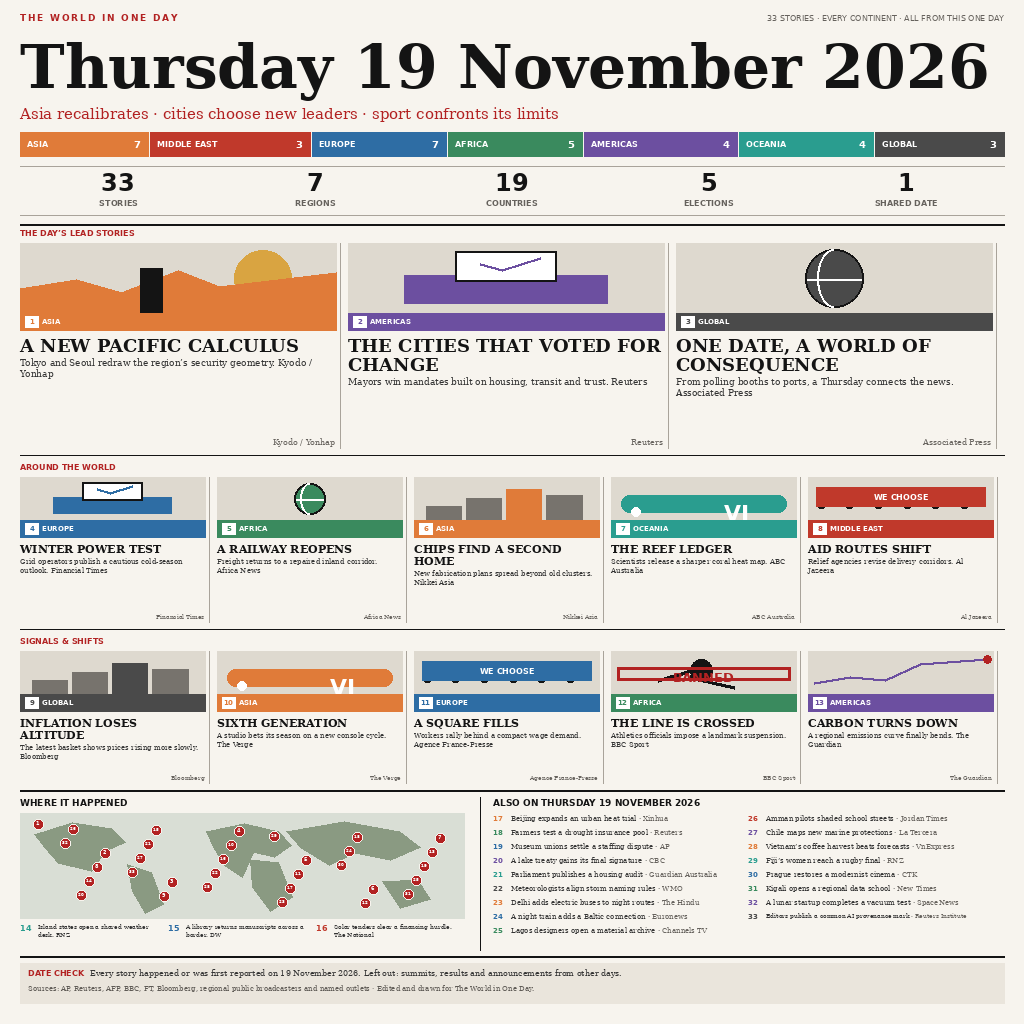
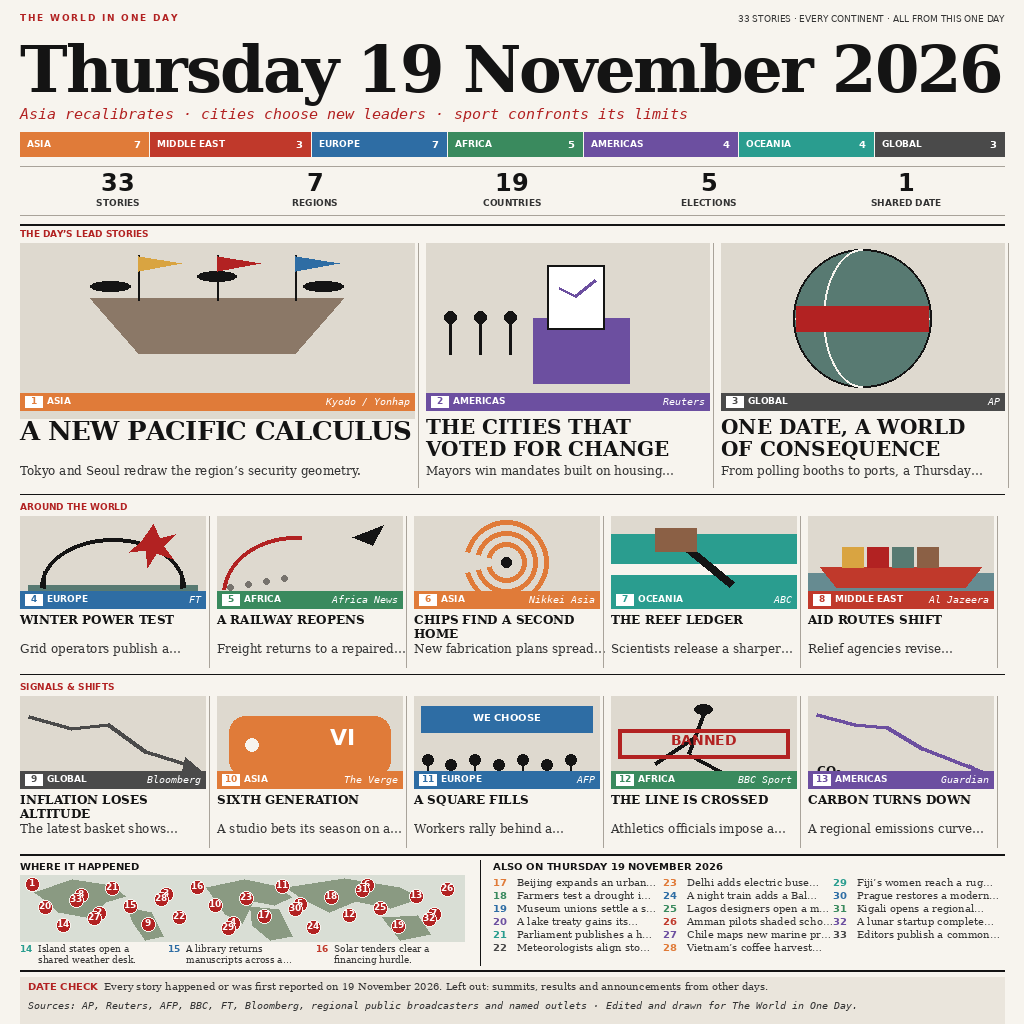
Refine front page hierarchy and rhythm

diff --git a/gen.py b/gen.py
@@ -5,9 +5,8 @@ W=H=1024
 PAPER='#F7F4EE'; INK='#141414'; BODY='#333333'; RED='#B22222'; RULE='#A9A39A'
 SER='/usr/share/fonts/truetype/dejavu/DejaVuSerif.ttf'
 SERB='/usr/share/fonts/truetype/dejavu/DejaVuSerif-Bold.ttf'
-# The supplied font set has no italic file; source/deck styling is kept serif
-# and distinguished by colour and placement.
-SERI=SER
+# The supplied serif set has no italic face; use the installed mono italic for credits.
+SERI='/usr/share/fonts/truetype/dejavu/DejaVuSansMono-Oblique.ttf'
 SANS='/usr/share/fonts/truetype/dejavu/DejaVuSans.ttf'
 SANSB='/usr/share/fonts/truetype/dejavu/DejaVuSans-Bold.ttf'
 COL={'ASIA':'#E07B39','MIDDLE EAST':'#C0392B','EUROPE':'#2E6DA4','AFRICA':'#3A8A5E','AMERICAS':'#6C4FA0','OCEANIA':'#2A9D8F','GLOBAL':'#4A4A4A'}
@@ -44,10 +43,11 @@ def rule(y,x1=20,x2=1004,fill=INK,sw=1): d.line((x1,y,x2,y),fill=fill,width=sw)
 
 # Masthead
 f9=font(SANSB,9); draw_spaced(20,12,'THE WORLD IN ONE DAY',f9,RED,1.8)
-right='33 STORIES · EVERY CONTINENT · ALL FROM THIS ONE DAY'; fr=font(SANS,8)
-d.text((1004,13),right,font=fr,fill='#66625D',anchor='ra')
-title='Thursday 19 November 2026'; ft=fit(title,SERB,69,54,984)
-d.text((20,31),title,font=ft,fill=INK,anchor='la',stroke_width=0)
+right='33 STORIES · EVERY CONTINENT · ALL FROM THIS ONE DAY'; fr=font(SANS,9)
+d.text((1004,13),right,font=fr,fill=BODY,anchor='ra')
+title='Thursday 19 November 2026'; ft=font(SERB,64)
+title_spacing=(984-sum(width(c,ft) for c in title))/(len(title)-1)
+draw_spaced(20,31,title,ft,INK,title_spacing)
 deck='Asia recalibrates · cities choose new leaders · sport confronts its limits'
 fd=fit(deck,SERI,15,11,984); d.text((20,105),deck,font=fd,fill=RED,anchor='la')
 
@@ -58,7 +58,7 @@ unit=total/sum(weights)
 for i,(lab,n) in enumerate(sections):
     ww=round(unit*weights[i]) if i<6 else 1004-x
     d.rectangle((x,132,x+ww,156),fill=COL[lab])
-    fl=fit(lab,SANSB,8,6,ww-29); d.text((x+7,139),lab,font=fl,fill='white')
+    fl=fit(lab,SANSB,9,9,ww-29); d.text((x+7,138),lab,font=fl,fill='white')
     d.text((x+ww-7,138),str(n),font=font(SANSB,10),fill='white',anchor='ra'); x+=ww+gap
 
 # stat bar
@@ -67,36 +67,59 @@ stats=[('33','STORIES'),('7','REGIONS'),('19','COUNTRIES'),('5','ELECTIONS'),('1
 for i,(num,cap) in enumerate(stats):
     cx=20+i*(984/5); ww=984/5
     d.text((cx+ww/2,168),num,font=font(SANSB,24),fill=INK,anchor='ma')
-    fs=font(SANSB,8); d.text((cx+ww/2,198),cap,font=fs,fill='#66625D',anchor='ma')
+    fs=font(SANSB,9); d.text((cx+ww/2,197),cap,font=fs,fill=BODY,anchor='ma')
 
 def illustration(box,kind,accent):
+    """Thirteen compact editorial scenes, drawn only with deterministic vectors."""
     x,y,w,h=box; d.rectangle((x,y,x+w,y+h),fill='#DED9CF')
-    if kind==0: # skyline/sun
-        d.ellipse((x+w*.68,y+7,x+w*.86,y+7+w*.18),fill='#D9A441')
-        d.polygon([(x,y+h),(x,y+h*.65),(x+w*.18,y+h*.52),(x+w*.32,y+h*.7),(x+w*.5,y+h*.39),(x+w*.63,y+h*.62),(x+w,y+h*.42),(x+w,y+h)],fill=accent)
-        d.rectangle((x+w*.38,y+h*.36,x+w*.45,y+h),fill=INK)
-    elif kind==1: # ballot
-        d.rectangle((x+w*.18,y+h*.47,x+w*.82,y+h*.86),fill=accent)
-        d.rectangle((x+w*.34,y+h*.12,x+w*.66,y+h*.55),fill='white',outline=INK,width=2)
-        d.line((x+w*.42,y+h*.3,x+w*.49,y+h*.39,x+w*.61,y+h*.22),fill=accent,width=3)
-    elif kind==2: # globe
-        dia=min(w*.46,h-12); gx=x+(w-dia)/2; gy=y+6
-        d.ellipse((gx,gy,gx+dia,gy+dia),fill=accent,outline=INK,width=2)
-        d.arc((gx+dia*.22,gy,gx+dia*.78,gy+dia),90,270,fill='white',width=2)
-        d.line((gx+2,gy+dia*.52,gx+dia-2,gy+dia*.52),fill='white',width=2)
-    elif kind==3: # bar chart
-        for j,v in enumerate([.32,.5,.72,.58]): d.rectangle((x+12+j*(w-24)/4,y+h*(1-v),x+7+(j+1)*(w-24)/4,y+h),fill=accent if j==2 else '#77736D')
-    elif kind==4: # controller
-        d.rounded_rectangle((x+10,y+18,x+w-10,y+h-8),12,fill=accent); d.ellipse((x+20,y+30,x+29,y+39),fill='white'); d.text((x+w*.61,y+23),'VI',font=font(SANSB,max(10,int(w*.12))),fill='white')
-    elif kind==5: # crowd
-        for j in range(6): d.ellipse((x+8+j*(w-13)/6,y+h*.5,x+18+j*(w-13)/6,y+h*.5+10),fill=INK)
-        d.rectangle((x+8,y+10,x+w-8,y+29),fill=accent); d.text((x+w/2,y+15),'WE CHOOSE',font=fit('WE CHOOSE',SANSB,8,6,w-20),fill='white',anchor='ma')
-    elif kind==6: # runner
-        d.ellipse((x+w*.43,y+8,x+w*.55,y+8+w*.12),fill=INK); d.line((x+w*.49,y+20,x+w*.43,y+h*.62,x+w*.67,y+h*.86),fill=INK,width=4); d.line((x+w*.45,y+h*.45,x+w*.25,y+h*.7),fill=INK,width=4)
-        d.rectangle((x+6,y+h*.38,x+w-6,y+h*.68),outline=RED,width=3); d.text((x+w/2,y+h*.42),'BANNED',font=fit('BANNED',SANSB,13,9,w-15),fill=RED,anchor='ma')
-    else: # line
-        pts=[(x+6,y+h*.75),(x+w*.23,y+h*.62),(x+w*.42,y+h*.69),(x+w*.61,y+h*.31),(x+w-6,y+h*.2)]; d.line(pts,fill=accent,width=3)
-        d.ellipse((pts[-1][0]-4,pts[-1][1]-4,pts[-1][0]+4,pts[-1][1]+4),fill=RED)
+    if kind==0: # negotiating table and three flags
+        d.ellipse((x+w*.18,y+38,x+w*.28,y+48),fill=INK); d.ellipse((x+w*.45,y+28,x+w*.55,y+38),fill=INK); d.ellipse((x+w*.72,y+38,x+w*.82,y+48),fill=INK)
+        d.polygon([(x+w*.18,y+55),(x+w*.82,y+55),(x+w*.7,y+110),(x+w*.3,y+110)],fill='#8B7867')
+        for j,c in enumerate(['#D9A441',RED,'#2E6DA4']):
+            fx=x+w*(.3+j*.2); d.line((fx,y+12,fx,y+57),fill=INK,width=2); d.polygon([(fx,y+13),(fx+w*.11,y+20),(fx,y+28)],fill=c)
+    elif kind==1: # ballot box and voter queue
+        d.rectangle((x+w*.38,y+75,x+w*.72,y+h-10),fill=accent); d.rectangle((x+w*.43,y+22,x+w*.63,y+86),fill='white',outline=INK,width=2)
+        d.line((x+w*.47,y+45,x+w*.53,y+53,x+w*.6,y+37),fill=accent,width=3)
+        for j in range(3):
+            px=x+18+j*30; d.ellipse((px,y+68,px+12,y+80),fill=INK); d.line((px+6,y+80,px+6,y+111),fill=INK,width=3)
+    elif kind==2: # globe with heat band
+        dia=min(w*.55,h-12); gx=x+(w-dia)/2; gy=y+6
+        d.ellipse((gx,gy,gx+dia,gy+dia),fill='#587A72',outline=INK,width=2)
+        d.arc((gx+dia*.22,gy,gx+dia*.78,gy+dia),90,270,fill=PAPER,width=2); d.line((gx+2,gy+dia*.5,gx+dia-2,gy+dia*.5),fill=PAPER,width=2)
+        d.rectangle((gx+3,gy+dia*.42,gx+dia-3,gy+dia*.6),fill=RED)
+    elif kind==3: # bridge and electrical burst
+        d.line((x+8,y+h-20,x+w-8,y+h-20),fill='#587A72',width=7); d.arc((x+20,y+22,x+w-20,y+h+28),180,360,fill=INK,width=4)
+        d.line((x+24,y+55,x+24,y+h-20),fill=INK,width=3); d.line((x+w-24,y+55,x+w-24,y+h-20),fill=INK,width=3)
+        cx=x+w*.72; cy=y+28; d.polygon([(cx,cy-20),(cx+6,cy-6),(cx+22,cy-10),(cx+10,cy+2),(cx+20,cy+15),(cx+3,cy+9),(cx-6,cy+23),(cx-7,cy+6),(cx-24,cy+8),(cx-11,cy-4)],fill=RED)
+    elif kind==4: # missile trail
+        d.arc((x+5,y+20,x+w*.82,y+h+45),185,275,fill=RED,width=4); d.polygon([(x+w*.73,y+21),(x+w*.9,y+9),(x+w*.84,y+29)],fill=INK)
+        for j in range(4): d.ellipse((x+10+j*18,y+h-24-j*3,x+16+j*18,y+h-18-j*3),fill='#77736D')
+    elif kind==5: # cyclone spiral
+        cx=x+w/2; cy=y+h/2
+        for r in (42,31,20): d.arc((cx-r,cy-r,cx+r,cy+r),195,525,fill=accent,width=5)
+        d.ellipse((cx-5,cy-5,cx+5,cy+5),fill=INK)
+    elif kind==6: # gavel over flag
+        d.polygon([(x,y+18),(x+w,y+18),(x+w,y+h-8),(x,y+h-8)],fill=accent); d.rectangle((x,y+48,x+w,y+58),fill=PAPER)
+        d.line((x+w*.35,y+22,x+w*.65,y+68),fill=INK,width=8); d.rectangle((x+w*.24,y+12,x+w*.46,y+35),fill='#8B6045')
+    elif kind==7: # freighter at a strait
+        d.rectangle((x,y+h*.62,x+w,y+h),fill='#668B91'); d.polygon([(x+12,y+h*.56),(x+w-12,y+h*.56),(x+w-28,y+h*.78),(x+28,y+h*.78)],fill=accent)
+        for j in range(4): d.rectangle((x+34+j*25,y+31,x+55+j*25,y+51),fill=['#D9A441',RED,'#587A72','#8B6045'][j])
+    elif kind==8: # chart with downward price arrow
+        pts=[(x+8,y+20),(x+w*.28,y+32),(x+w*.48,y+28),(x+w*.68,y+55),(x+w-12,y+70)]; d.line(pts,fill=accent,width=4)
+        d.polygon([(x+w-20,y+61),(x+w-5,y+74),(x+w-24,y+80)],fill=accent)
+        d.line((x+8,y+h-10,x+w-8,y+h-10),fill=INK,width=2)
+    elif kind==9: # controller VI
+        d.rounded_rectangle((x+12,y+20,x+w-12,y+h-12),16,fill=accent); d.ellipse((x+28,y+42,x+41,y+55),fill=PAPER); d.text((x+w*.61,y+28),'VI',font=font(SANSB,22),fill='white')
+    elif kind==10: # crowd and banner
+        for j in range(7):
+            px=x+8+j*(w-18)/7; d.ellipse((px,y+58+(j%2)*5,px+11,y+69+(j%2)*5),fill=INK); d.line((px+5,y+69,px+5,y+h-5),fill=INK,width=2)
+        d.rectangle((x+7,y+10,x+w-7,y+36),fill=accent); d.text((x+w/2,y+15),'WE CHOOSE',font=font(SANSB,10),fill='white',anchor='ma')
+    elif kind==11: # runner and banned stamp
+        d.ellipse((x+w*.45,y+8,x+w*.55,y+18),fill=INK); d.line((x+w*.5,y+18,x+w*.42,y+58,x+w*.66,y+82),fill=INK,width=4); d.line((x+w*.45,y+42,x+w*.24,y+68),fill=INK,width=4)
+        d.rectangle((x+7,y+33,x+w-7,y+62),outline=RED,width=4); d.text((x+w/2,y+36),'BANNED',font=font(SANSB,14),fill=RED,anchor='ma')
+    else: # falling emissions curve
+        pts=[(x+8,y+18),(x+w*.25,y+28),(x+w*.43,y+31),(x+w*.62,y+52),(x+w-12,y+75)]; d.line(pts,fill=accent,width=4)
+        d.polygon([(x+w-24,y+68),(x+w-6,y+78),(x+w-18,y+88)],fill=accent); d.text((x+9,y+h-25),'CO₂',font=font(SANSB,12),fill=INK)
 
 stories=[
 (1,'ASIA','A NEW PACIFIC CALCULUS','Tokyo and Seoul redraw the region’s security geometry.','Kyodo / Yonhap'),
@@ -113,92 +136,98 @@ stories=[
 (12,'AFRICA','THE LINE IS CROSSED','Athletics officials impose a landmark suspension.','BBC Sport'),
 (13,'AMERICAS','CARBON TURNS DOWN','A regional emissions curve finally bends.','The Guardian')]
 
-def panel(x,y,w,h,st,lead=False,kind=0):
-    n,sec,head,stand,src=st; barh=17; illh=70 if lead else (48 if h>145 else 43)
+def panel(x,y,w,h,st,lead=False,hero=False,kind=0):
+    n,sec,head,stand,src=st
+    illh=175 if hero else (150 if lead else 92)
     illustration((x,y,w,illh),kind,COL[sec])
-    d.rectangle((x,y+illh,x+w,y+illh+barh),fill=COL[sec])
-    d.rectangle((x+5,y+illh+3,x+18,y+illh+14),fill='white'); d.text((x+11.5,y+illh+4),str(n),font=font(SANSB,7),fill=COL[sec],anchor='ma')
-    fs=fit(sec,SANSB,7,5,w-28); d.text((x+22,y+illh+4),sec,font=fs,fill='white')
-    hy=y+illh+barh+5; hf=font(SERB,18 if lead else 11)
-    maxhl=3 if lead else 2; lines=wrap(head,hf,w-2,maxhl)
-    for i,line in enumerate(lines): d.text((x,hy+i*(hf.size+1)),line,font=hf,fill=INK)
-    sy=hy+len(lines)*(hf.size+1)+3; sf=font(SER,9 if lead else 7)
-    available=y+h-sy-2; lineh=sf.size+2
-    full=stand+' '+src
-    ls=wrap(full,sf,w-2)
-    assert len(ls)*lineh<=available,(n,ls,available)
-    for i,line in enumerate(ls):
-        d.text((x,sy+i*lineh),line,font=sf,fill=BODY)
-    # source overlay in italic at last line's right if room; attribution remains explicit
-    d.text((x+w-1,y+h-1),src,font=font(SERI,max(6,sf.size-1)),fill='#66625D',anchor='rd')
+    # Geometry is fixed by band, never by the amount of copy.
+    bar_y=y+(150 if lead else 75); barh=17
+    d.rectangle((x,bar_y,x+w,bar_y+barh),fill=COL[sec])
+    d.rectangle((x+5,bar_y+3,x+22,bar_y+14),fill='white')
+    d.text((x+13.5,bar_y+2),str(n),font=font(SANSB,9),fill=COL[sec],anchor='ma')
+    d.text((x+27,bar_y+2),sec,font=font(SANSB,9),fill='white')
+    credit_alias={'Associated Press':'AP','Financial Times':'FT','Agence France-Presse':'AFP','ABC Australia':'ABC','The Guardian':'Guardian'}
+    d.text((x+w-4,bar_y+2),credit_alias.get(src,src),font=font(SERI,10),fill='white',anchor='ra')
+    hy=y+(172 if lead else 96); hf=font(SERB,26 if hero else (20 if lead else 12))
+    lines=wrap(head,hf,w-2,2)
+    if hero: # keep the 26px dominant headline on one measured line
+        spacing=(w-2-sum(width(c,hf) for c in head))/(len(head)-1)
+        draw_spaced(x,hy,head,hf,INK,spacing)
+    else:
+        for i,line in enumerate(lines): d.text((x,hy+i*(hf.size+2)),line,font=hf,fill=INK)
+    sy=y+(220 if lead else 125); sf=font(SER,12)
+    stand_lines=wrap(stand,sf,w-2)
+    stand_line=stand_lines[0] if len(stand_lines)==1 else stand_lines[0].rstrip('.,')+'…'
+    d.text((x,sy),stand_line,font=sf,fill=BODY)
     d.line((x+w+4,y,x+w+4,y+h),fill=RULE,width=1)
 
 # lead band
-rule(224,sw=2); d.text((20,228),'THE DAY’S LEAD STORIES',font=font(SANSB,8),fill=RED)
-for i in range(3): panel(20+i*328,243,316,205,stories[i],True,i)
-rule(455)
+rule(224,sw=2); d.text((20,228),'THE DAY’S LEAD STORIES',font=font(SANSB,9),fill=RED)
+lead_widths=[394,283,283]; lead_x=[20,426,721]
+for i in range(3): panel(lead_x[i],243,lead_widths[i],244,stories[i],True,i==0,i)
+rule(494)
 # secondary
-d.text((20,462),'AROUND THE WORLD',font=font(SANSB,8),fill=RED)
-for i in range(5): panel(20+i*197,477,185,145,stories[3+i],False,i+1)
-rule(629)
+d.text((20,501),'AROUND THE WORLD',font=font(SANSB,9),fill=RED)
+for i in range(5): panel(20+i*197,516,185,151,stories[3+i],False,False,i+3)
+rule(674)
 # tertiary
-d.text((20,636),'SIGNALS & SHIFTS',font=font(SANSB,8),fill=RED)
-for i in range(5): panel(20+i*197,651,185,132,stories[8+i],False,i+3)
-rule(790,sw=2)
+d.text((20,681),'SIGNALS & SHIFTS',font=font(SANSB,9),fill=RED)
+for i in range(5): panel(20+i*197,696,185,151,stories[8+i],False,False,i+8)
+rule(854,sw=2)
 
 # Footer: map left, index right
-d.text((20,797),'WHERE IT HAPPENED',font=font(SANSB,9),fill=INK)
-mx,my,mw,mh=20,813,444,105
+d.text((20,860),'WHERE IT HAPPENED',font=font(SANSB,10),fill=INK)
+mx,my,mw,mh=20,875,444,66
 d.rectangle((mx,my,mx+mw,my+mh),fill='#D9DED5')
 # deliberately abstract, flat world silhouettes
 land='#8A9A82'
-d.polygon([(34,834),(72,822),(111,828),(125,842),(105,851),(91,871),(58,863),(45,848)],fill=land)
-d.polygon([(127,864),(151,872),(163,904),(145,913),(132,891)],fill=land)
-d.polygon([(206,831),(244,823),(278,831),(291,845),(274,857),(253,852),(242,877),(225,866),(213,847)],fill=land)
-d.polygon([(250,859),(278,862),(292,897),(270,911),(252,887)],fill=land)
-d.polygon([(286,831),(344,821),(399,831),(420,847),(390,860),(355,853),(329,865),(301,848)],fill=land)
-d.polygon([(382,881),(417,879),(430,899),(400,908)],fill=land)
+d.polygon([(34,892),(72,879),(111,885),(125,896),(105,902),(91,918),(58,912),(45,900)],fill=land)
+d.polygon([(127,907),(151,912),(163,936),(145,940),(132,921)],fill=land)
+d.polygon([(206,887),(244,879),(278,886),(291,897),(274,905),(253,901),(242,923),(225,914),(213,897)],fill=land)
+d.polygon([(250,906),(278,909),(292,936),(270,940),(252,925)],fill=land)
+d.polygon([(286,887),(344,878),(399,887),(420,898),(390,908),(355,901),(329,912),(301,898)],fill=land)
+d.polygon([(382,917),(417,915),(430,934),(400,940)],fill=land)
 coords=[]
 for i in range(33):
-    px=mx+18+((i*67)%410); py=my+11+((i*29)%80); coords.append((px,py))
-    d.ellipse((px-5,py-5,px+5,py+5),fill=RED,outline=PAPER,width=1)
-    d.text((px,py-1),str(i+1),font=font(SANSB,4 if i>=9 else 5),fill='white',anchor='mm')
+    px=mx+12+((i*67)%420); py=my+9+((i*29)%48); coords.append((px,py))
+    d.ellipse((px-7,py-7,px+7,py+7),fill=RED,outline=PAPER,width=1)
+    d.text((px,py-1),str(i+1),font=font(SANSB,9),fill='white',anchor='mm')
 
 briefs=[(14,'OCEANIA','Island states open a shared weather desk.','RNZ'),(15,'EUROPE','A library returns manuscripts across a border.','DW'),(16,'MIDDLE EAST','Solar tenders clear a financing hurdle.','The National')]
-by=923
+by=943
 for j,(n,sec,s,src) in enumerate(briefs):
-    xx=20+j*148; d.text((xx,by),f'{n:02}',font=font(SANSB,8),fill=COL[sec]);
-    line=s+' '+src; f=font(SER,6); ls=wrap(line,f,120,2)
-    for k,l in enumerate(ls): d.text((xx+18,by+k*8),l,font=f,fill=BODY)
+    xx=20+j*148; d.text((xx,by),f'{n:02}',font=font(SANSB,9),fill=COL[sec]);
+    f=font(SER,9); ls=wrap(s,f,122)
+    if len(ls)>2: ls=[ls[0],ls[1].rstrip('.,')+'…']
+    for k,l in enumerate(ls): d.text((xx+18,by+k*11),l,font=f,fill=BODY)
 
-d.line((480,797,480,950),fill=INK,width=1)
-d.text((493,797),'ALSO ON THURSDAY 19 NOVEMBER 2026',font=font(SANSB,9),fill=INK)
+d.line((480,860,480,965),fill=INK,width=1)
+d.text((493,860),'ALSO ON THURSDAY 19 NOVEMBER 2026',font=font(SANSB,10),fill=INK)
 index=[
 ('ASIA','Beijing expands an urban heat trial','Xinhua'),('AFRICA','Farmers test a drought insurance pool','Reuters'),('EUROPE','Museum unions settle a staffing dispute','AP'),('AMERICAS','A lake treaty gains its final signature','CBC'),('OCEANIA','Parliament publishes a housing audit','Guardian Australia'),('GLOBAL','Meteorologists align storm naming rules','WMO'),('ASIA','Delhi adds electric buses to night routes','The Hindu'),('EUROPE','A night train adds a Baltic connection','Euronews'),('AFRICA','Lagos designers open a material archive','Channels TV'),('MIDDLE EAST','Amman pilots shaded school streets','Jordan Times'),('AMERICAS','Chile maps new marine protections','La Tercera'),('ASIA','Vietnam’s coffee harvest beats forecasts','VnExpress'),('OCEANIA','Fiji’s women reach a rugby final','RNZ'),('EUROPE','Prague restores a modernist cinema','CTK'),('AFRICA','Kigali opens a regional data school','New Times'),('AMERICAS','A lunar startup completes a vacuum test','SpaceNews'),('GLOBAL','Editors publish a common AI provenance mark','Reuters Institute')]
 for j,(sec,s,src) in enumerate(index):
-    col=j//9; row=j%9; xx=493+col*255; yy=814+row*14
-    d.text((xx,yy),str(17+j),font=font(SANSB,7),fill=COL[sec])
-    ff=fit(s+' · '+src,SER,7,5,230)
-    d.text((xx+18,yy),s+' · ',font=ff,fill=BODY)
-    d.text((xx+18+width(s+' · ',ff),yy),src,font=font(SERI,ff.size),fill='#66625D')
+    col=j//6; row=j%6; xx=493+col*170; yy=876+row*13
+    d.text((xx,yy),str(17+j),font=font(SANSB,10),fill=COL[sec])
+    short=s if len(s)<=25 else s[:24].rstrip()+'…'
+    d.text((xx+24,yy),short,font=font(SER,10),fill=BODY)
 
 # date-check and colophon
-rule(956,sw=2)
-d.rectangle((20,963,1004,1003),fill='#EAE5DC')
-d.text((28,968),'DATE CHECK',font=font(SANSB,8),fill=RED)
+rule(970,sw=2)
+d.rectangle((20,977,1004,1023),fill='#EAE5DC')
+d.text((28,980),'DATE CHECK',font=font(SANSB,10),fill=RED)
 check='Every story happened or was first reported on 19 November 2026. Left out: summits, results and announcements from other days.'
-d.text((90,968),check,font=fit(check,SER,8,6,900),fill=BODY)
+d.text((104,980),check,font=font(SER,10),fill=BODY)
 colo='Sources: AP, Reuters, AFP, BBC, FT, Bloomberg, regional public broadcasters and named outlets · Edited and drawn for The World in One Day.'
-d.text((28,984),colo,font=fit(colo,SERI,7,5,960),fill='#5E5A55')
+d.text((28,999),colo,font=font(SERI,10),fill=BODY)
 
 # Global geometry assertions
 assert len(stories)+len(briefs)+len(index)==33
 assert im.size==(1024,1024)
 # Major content blocks are half-open rectangles, so touching rules are valid
 # while any positive-area collision is rejected.
-blocks=[('masthead',(20,12,1004,216)),('lead',(20,224,1004,456)),
-        ('secondary',(20,462,1004,630)),('tertiary',(20,636,1004,791)),
-        ('footer',(20,797,1004,951)),('datecheck',(20,956,1004,1004))]
+blocks=[('masthead',(20,12,1004,216)),('lead',(20,224,1004,495)),
+        ('secondary',(20,501,1004,675)),('tertiary',(20,681,1004,855)),
+        ('footer',(20,860,1004,966)),('datecheck',(20,970,1004,1024))]
 for i,(an,a) in enumerate(blocks):
     assert 0<=a[0]<a[2]<=W and 0<=a[1]<a[3]<=H
     for bn,b in blocks[i+1:]:
